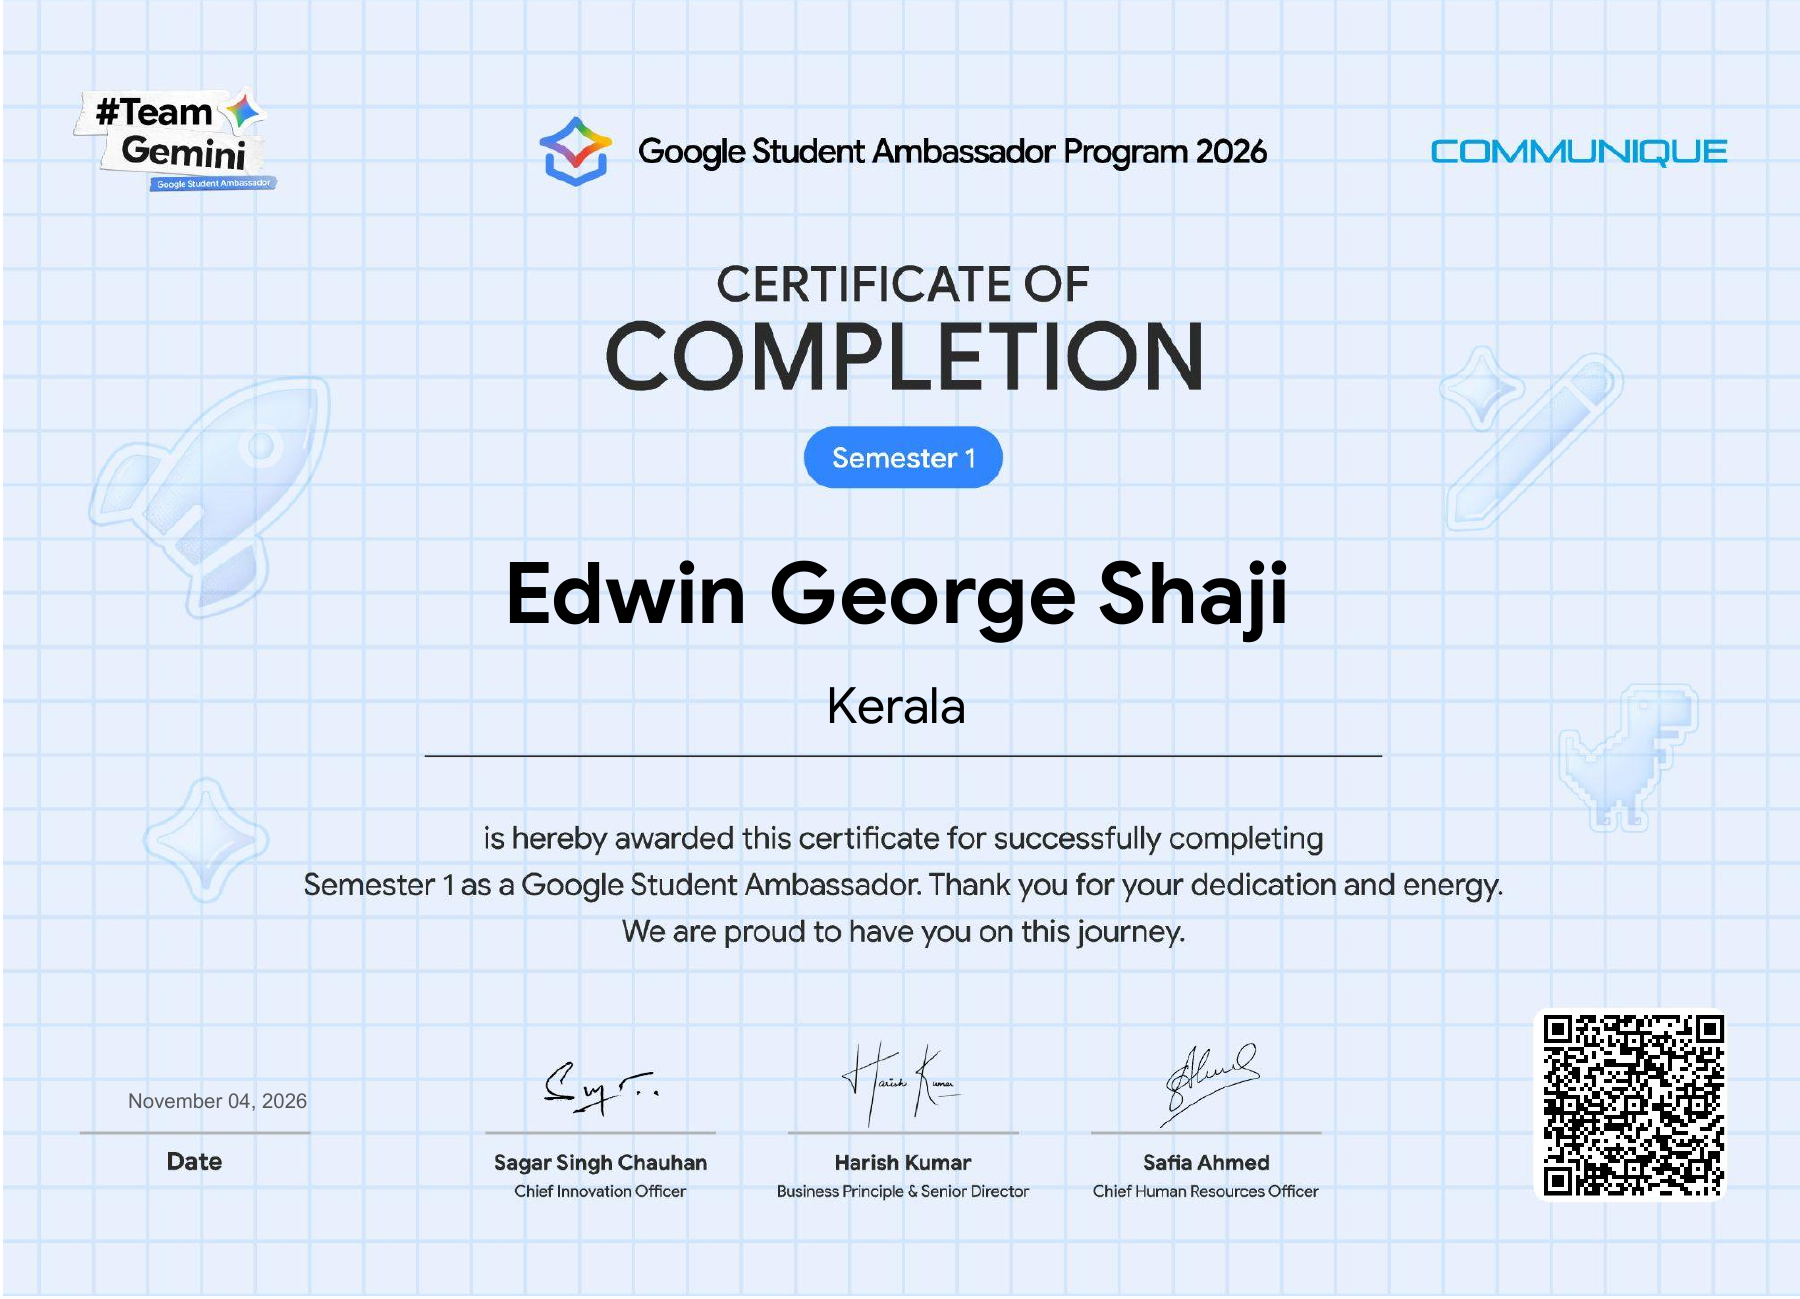
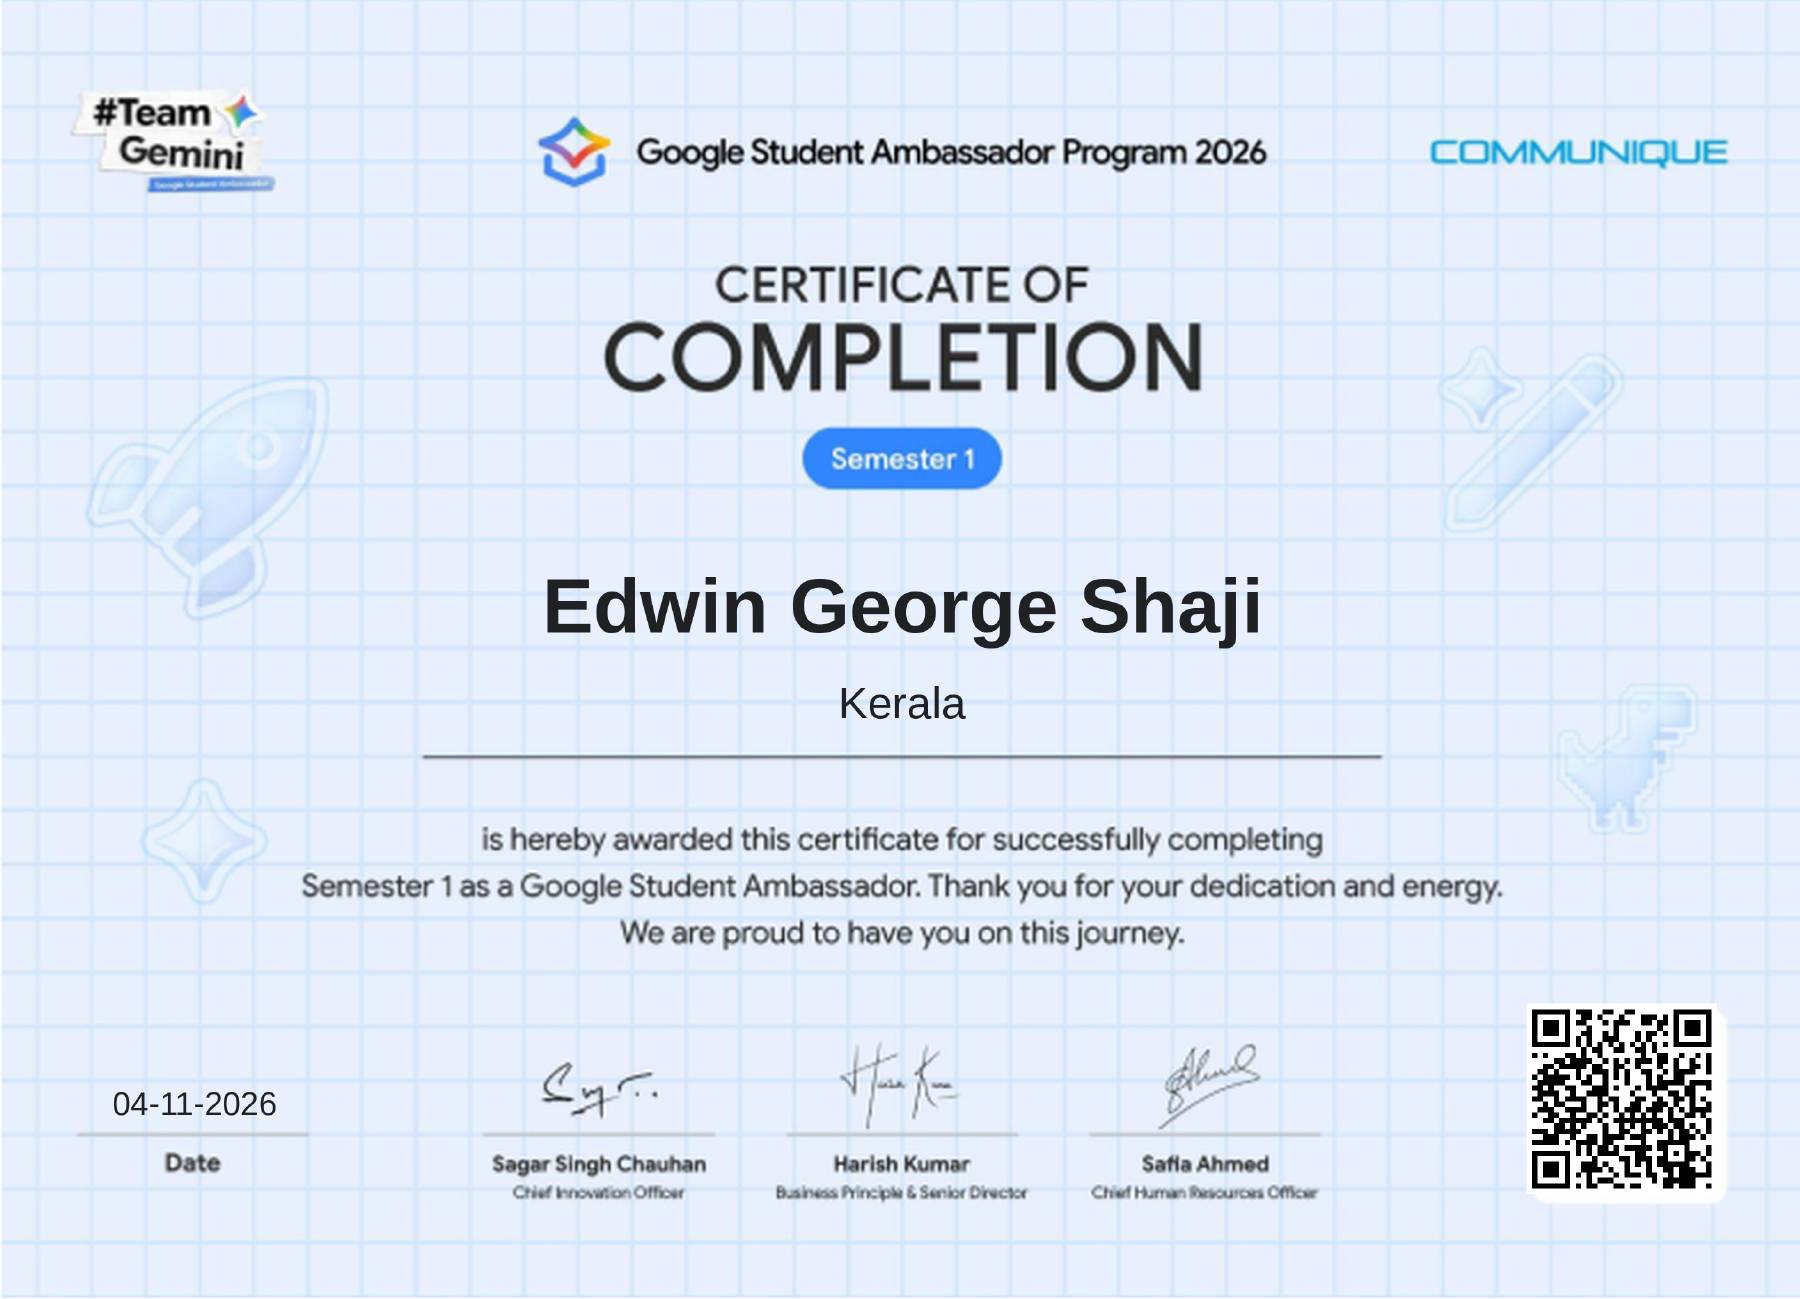
Replace Google ambassador certificate and shorten display title

diff --git a/site/DESIGN.md b/site/DESIGN.md
@@ -1,6 +1,6 @@
 # Edwin George Shaji — design and maintenance specification
 
-Last reconciled with the implementation and owner decisions: 25 November 2026.
+Last reconciled with the implementation and owner decisions: 26 November 2026.
 
 ## Read this first: handoff to another model or platform
 
@@ -155,7 +155,7 @@ Ordering is explicit editorial metadata, shared by the collection and homepage m
 The `certificateGroups` array defines this order:
 1. `awards`: SpiceLink I²U funding selection is first (priority 0), followed by competition wins and institutional selections. Its description states ₹15,000 INR in funding, as confirmed by the owner; the certificate confirms selection but does not print the amount. The landscape preview is first in the homepage marquee too. No issue date is inferred from PDF metadata. Innovare 2026 First Place precedes IDEATHON 2026 Second Place, then SIH institutional selection. Do not describe selection or participation as a national win.
 2. `nptel`: keep Elite credentials together; the 12-week Java algorithms course precedes the 8-week DBMS course.
-3. `ambassadorship`: Google Student Ambassador Program 2026 - Semester 1 immediately before Director's Honours Award - Semester 4.
+3. `ambassadorship`: Google Student Ambassador Program 2026 immediately before Director's Honours Award - Semester 4.
 4. `honours`: Director's honours before Principal's honours; keep semester credentials separate.
 5. `internships`: completion certificates, including Infosys PaperIQ and NeST Data Science. This category takes precedence over issuer grouping.
 6. `ibm`: Quantum Excellence, Basics of Quantum Information, AI Fundamentals, Getting Started with AI.
@@ -596,7 +596,7 @@ Portrait discovery: allow the three legacy photograph URLs for Googlebot-Image s
 
 Googlebot also excludes /assets/ except both portraits, the responsive variant and their legacy redirect URLs, to exclude decorative and certificate assets from general Search image candidates. Page routes, CSS, JS, fonts and root favicon files remain crawlable. Non-Google social crawlers retain access to hero-social.png.
 
-The Google Student Ambassador Program 2026 Semester 1 completion certificate appears immediately before Director's Honours Award - Semester 4 in the certificate collection; the homepage marquee follows this same ordering while excluding portrait certificates. Its landscape preview uses the existing certificate rendering; the ambassadorship editorial group precedes honours.
+The Google Student Ambassador Program 2026 certificate uses the replacement cropped PDF supplied on 26 November 2026; its display title omits Semester 1, while its stable slug and factual semester-completion description remain unchanged. It appears immediately before Director's Honours Award - Semester 4 in the certificate collection; the homepage marquee follows this same ordering while excluding portrait certificates. Its landscape preview uses the existing certificate rendering; the ambassadorship editorial group precedes honours.
 
 Gemini Student Ambassador experience runs April–November 2026 (display: Apr 2026 - Nov 2026; end: 2026-11). Keep the homepage and Experience subpage sourced from the same record.
 
